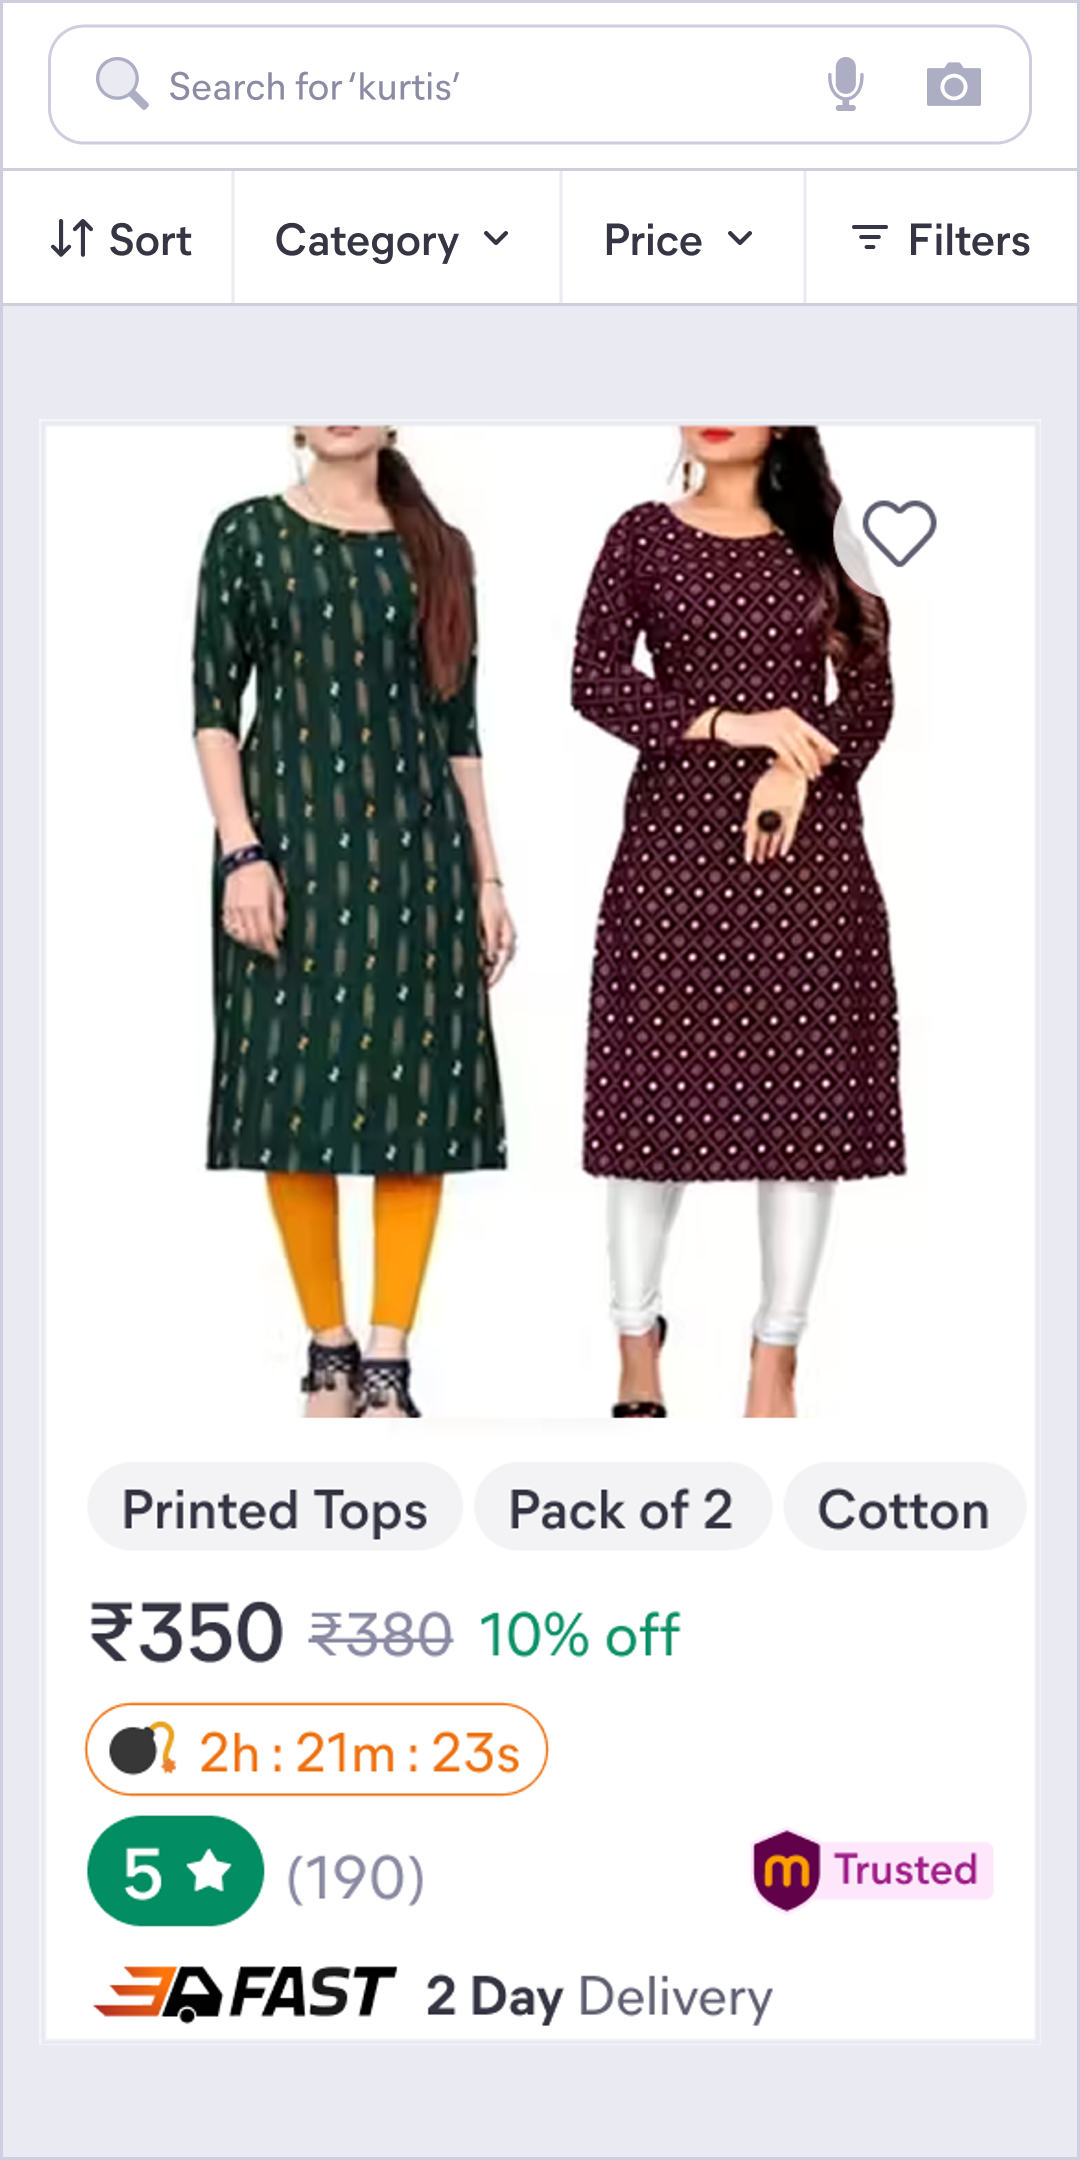
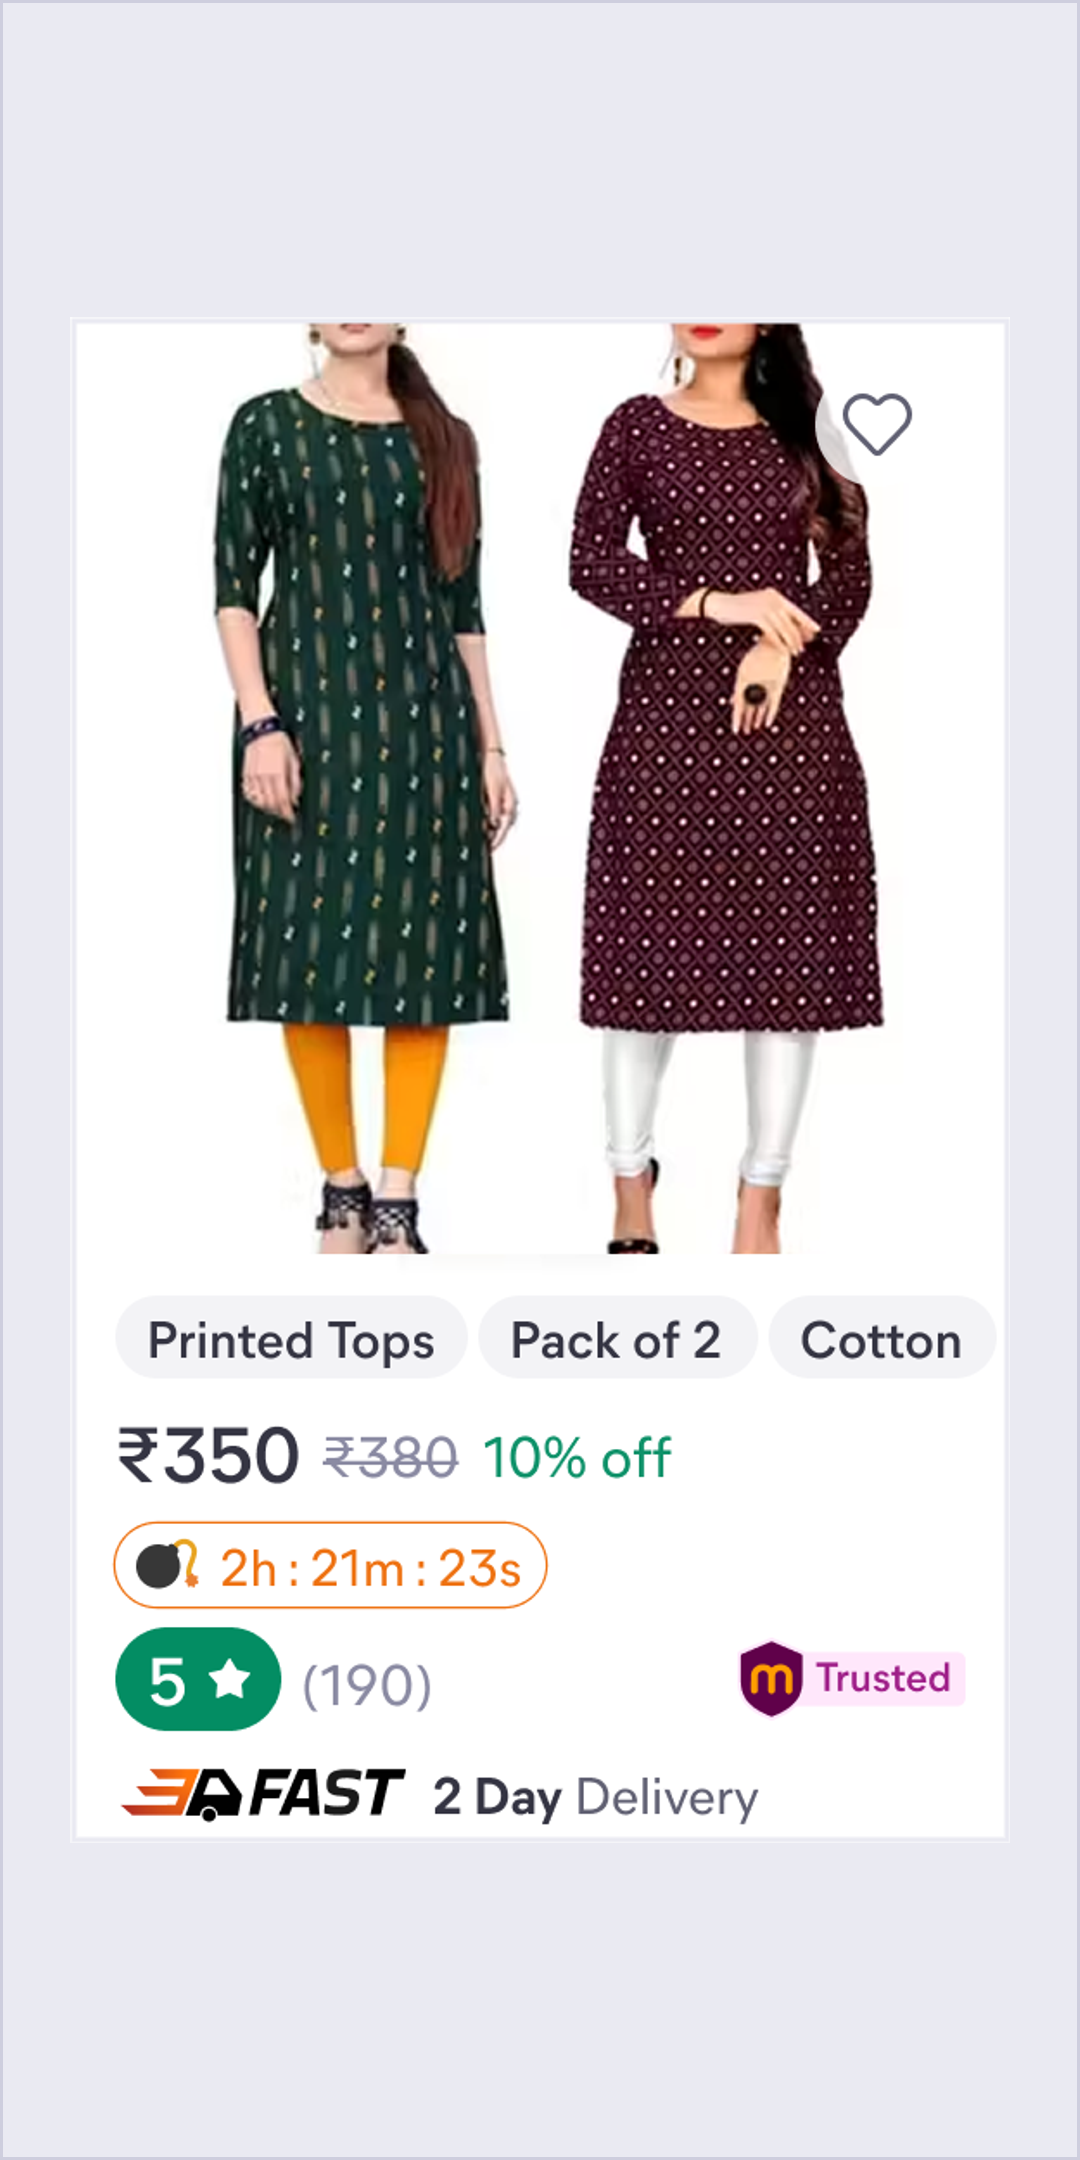
Case phone: glass card, hover stops the animation; framework notes start inside the screen

diff --git a/src/data/plp-case.ts b/src/data/plp-case.ts
@@ -206,32 +206,34 @@ export const plpCase: CaseTeaserData = {
       after: 'The new card',
       cash: 'The cash-price row',
     },
-    // Handwritten notes beside the phone, as on the homepage tiles: each `y` is
-    // where its arrow's tip lands, as a fraction of that screen's height, read
-    // from the composed screen (scripts/plp-compose.mjs prints them). The
-    // framework's notes are the labels on his board, word for word ("Fast
-    // Program" in the site's spelling); the rest are DRAFT wording for Uttham,
-    // true to the screens, saying what the screen shows rather than repeating
-    // the row beside it. Priority order; no numbers.
+    // Handwritten notes beside the phone: each line STARTS ON the thing it
+    // names, inside the screen (Uttham, 2026-10-03: "the pointers should have
+    // the origins from inside so it is easy to understand what point we are
+    // highlighting"), at (x, y) as shares of that screen's width and height
+    // (scripts/plp-compose.mjs prints the framework's), and runs out to its
+    // words, which stand at `ty` in the notes column — spread out, so the
+    // spacing stays generous ("I want the spacing to be generous here"). The
+    // framework's words are the labels on his board ("Fast Program" in the
+    // site's spelling); the rest are DRAFT wording for Uttham. No numbers.
     notes: {
       cleanup: [
-        { text: 'Product comprehension', y: 0.426 }, // the picture
-        { text: 'Comprehension', y: 0.695 }, // the fact chips
-        { text: 'Price', y: 0.778 }, // price and the timer
-        { text: 'Quality', y: 0.866 }, // rating and the Trusted mark
-        { text: 'Fast programme', y: 0.921 }, // the delivery line
+        { text: 'Product comprehension', x: 0.19, y: 0.364, ty: 0.36 }, // on the picture
+        { text: 'Comprehension', x: 0.09, y: 0.619, ty: 0.56 }, // the fact chips
+        { text: 'Price', x: 0.09, y: 0.673, ty: 0.68 }, // price and the timer
+        { text: 'Quality', x: 0.09, y: 0.778, ty: 0.8 }, // rating and the Trusted mark
+        { text: 'Fast programme', x: 0.09, y: 0.832, ty: 0.92 }, // the delivery line
       ],
       titles: [
-        { text: 'The seller’s title', y: 0.41 }, // DRAFT: "Anarkali Kurti", first row
-        { text: 'Facts in its place', y: 0.759 }, // DRAFT: the Kurti · Cotton chips, second row
+        { text: 'The seller’s title', x: 0.03, y: 0.41 }, // DRAFT: "Anarkali Kurti", first row
+        { text: 'Facts in its place', x: 0.03, y: 0.759 }, // DRAFT: the Kurti · Cotton chips, second row
       ],
       list: [
-        { text: 'A row per product', y: 0.231 }, // DRAFT: the first row
-        { text: 'Facts beside the picture', y: 0.578 }, // DRAFT: the third row's chips
+        { text: 'A row per product', x: 0.03, y: 0.231 }, // DRAFT: the first row
+        { text: 'Facts beside the picture', x: 0.03, y: 0.578 }, // DRAFT: the third row's chips
       ],
       date: [
-        { text: 'Fast, with a day count', y: 0.782 }, // DRAFT: the kurti's delivery line
-        { text: 'None where it isn’t fast', y: 0.406 }, // DRAFT: the shirt above it, no delivery line
+        { text: 'Fast, with a day count', x: 0.03, y: 0.782 }, // DRAFT: the kurti's delivery line
+        { text: 'None where it isn’t fast', x: 0.03, y: 0.406 }, // DRAFT: the shirt above it, no delivery line
       ],
     },
   },

diff --git a/src/data/case-teaser.ts b/src/data/case-teaser.ts
@@ -29,7 +29,10 @@ export type CaseSection = { state?: string; heading: string; blocks: CaseBlock[]
 // never a number; `y` is where its arrow's tip lands on the screen's left edge,
 // as a fraction of THAT screen's height (0 = top, 1 = bottom). The words stand
 // left of the arrow, on the card's paper, never over the screen.
-export type ScreenNote = { text: string; y: number };
+// A note beside the phone: its line starts ON the thing it names, inside the
+// screen, at (x, y), and runs out to its words, which stand at `ty` in the
+// notes column (shares of the screen's width and height; `ty` defaults to y).
+export type ScreenNote = { text: string; y: number; x?: number; ty?: number };
 
 export type Experiment = {
   state: string;

diff --git a/CLAUDE.md b/CLAUDE.md
@@ -564,7 +564,10 @@ block of rows or steps plays as a slideshow** (2026-10-02: "the preview runs
 these 4 slideshows, accordingly the highlight changes in the left … in all the
 blocks"): once the reading reaches a block showing two or more different
 screens, the phone runs through them a beat (2.6s) each and the row it shows
-takes the highlight; hovering a row holds it; reduced motion keeps the
+takes the highlight; hovering a row holds it, and **a pointer resting on a
+point's text or on the preview stops the animation** (2026-10-03: "on hover of
+a point text or the preview stop the animation"): no beat moves on, a pan or a
+clip pauses where it is, and it all carries on when the pointer leaves; reduced motion keeps the
 scroll-driven pick, row by row inside a block too, and hover holds nothing
 there. **A row with several screens plays them in turn**
 (`screens.map` to a list — the Mall tab: its modal, then its PiP), the card's
@@ -765,22 +768,27 @@ list view without its grid control or variant labels; the winning date card
 among cards with no date. **Cards in a mobile grid**: the four title variants
 as the feed's own 2 × 2, at its column width, each at its own height, the feed
 carrying on below them. **The framework card inside the phone**, large on the
-feed under the app's search bar and filter row, its dashed zone boxes and
-labels gone (only the dash pixels are cleared; the timer pill's foot, hidden
-under one, is restored from its own top edge, mirrored). Each takes `after.png`'s
-search bar and filter row as its chrome, except the list, which has its own.
+feed with no search bar or filter row (2026-10-03: "remove the search and
+filter bar"), centred in the screen, its dashed zone boxes and labels gone (only
+the dash pixels are cleared; the timer pill's foot, hidden under one, is
+restored from its own top edge, mirrored). The title and date screens take
+`after.png`'s search bar and filter row as their chrome; the list has its own.
 Lanczos, never sharpened; the effective upscale on the page is ×1.5 for the
 title, date and list screens (the boards are 1× renders) and none for the
 framework card. **The words outside, as on the homepage**: handwritten notes
 (`screens.notes` in `src/data/plp-case.ts`, per screen file, `y` a share of
 that screen's height, priority order, no numbers), the tiles' Caveat in ink and
-the same hand-drawn arrow, on the card's paper **left of the device** — every
-one of these screens sets its content against its left edge, and that side
-faces the reading — each arrow's tip on the display's left edge at its `y`
-(measured within 0px of it, 1px inside the screen) and crossing the bezel on a
-paper halo, the words standing on the arrow's tail, so a note is about a line
-and a half tall and the framework's four rows, a little more than that apart,
-never collide. Never over the screen, never between the device and its title.
+on the card's glass **left of the device** — every one of these screens sets
+its content against its left edge, and that side faces the reading. **Each
+note's line starts inside the screen, on the thing it names** (Uttham,
+2026-10-03: "the pointers should have the origins from inside so it is easy to
+understand what point we are highlighting"): a dot at (`x`, `y`), shares of the
+display's width and height, on the element or in the card's margin just left of
+it, and a thin ink line on a paper halo from the dot out across the bezel to the
+words. **The words stand at `ty`** (default `y`), spread down the column so
+close zones still get generous room between their notes ("I want the spacing to
+be generous here"); the line takes its length and angle from `hypot()` and
+`atan2()`. Never words over the screen, never between the device and its title.
 The framework's notes are his labels word for word (Product comprehension,
 Comprehension, Price, Quality, Fast programme); the others are DRAFT wording,
 his to set. **The notes column is constant**: `--ct-notes-w`, 0.46 of the
@@ -794,13 +802,14 @@ the dialog show none. Measured 2026-10-03: card 480.7 × 720 / 395.7 × 596 at
 1440×900 / 1280×720 through every state of the teaser and the full study, the
 display 273 / 222 as before; the Mall page is unchanged.
 
-**Glass only where something sits between** (Uttham, 2026-10-01: "for the phone
-preview no need to use the glass, use the card component, glass is only used
-when you want to keep something between"). On the teaser pages the phone and the
-AI prompt panel stand on the paper card (`--paper-1`, `--line-1`, `--radius-sm`,
+**The phone preview stands on glass** (Uttham, 2026-10-03: "for phone preview
+use glass background"; "as we have phone we can ignore the background white
+card?? or put a glass card"). The sticky card is the site's `.glass` pane, its
+edge kept at 1px so the height budget holds; the mini player stays bare. The AI
+prompt panel stays on the paper card (`--paper-1`, `--line-1`, `--radius-sm`,
 `--shadow-rest`, `--card-padding`), the prompt in the sheet's recessed well
-(`--paper-2`); glass is for a pane with something tucked behind it, as the hero
-portrait is behind its slab.
+(`--paper-2`). (From 2026-10-01 the phone stood on paper: "glass is only used
+when you want to keep something between".)
 
 **The AI Space tool pages are one-pagers, not teasers** (Uttham, 2026-10-02:
 "for AI space cards, there is no need to have teaser, just a one pager only" —
